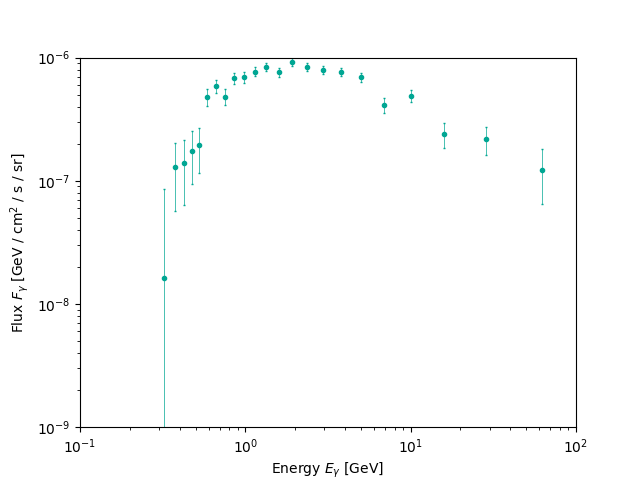
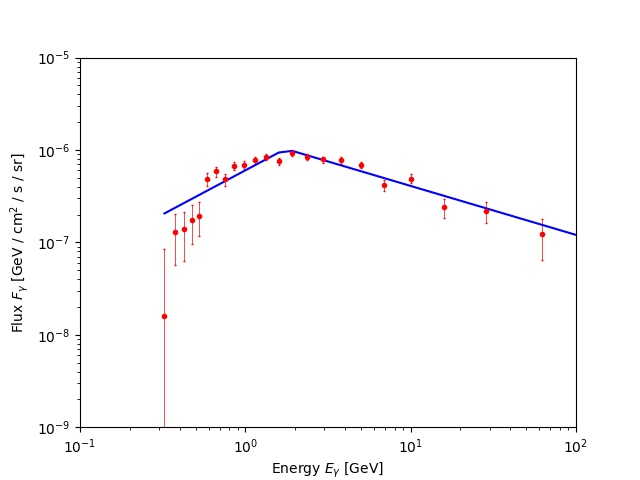
fit with bpl

diff --git a/Flux/flux.py b/Flux/flux.py
@@ -2,11 +2,25 @@
 #import
 
 import numpy as np
-import math
 import matplotlib.pyplot as plt
-from scipy.special import gammaincc,gamma, exp1
+from iminuit import Minuit
+from iminuit.cost import LeastSquares
 import os
 
+#useful functions
+
+#broken power law function (be carefull about exponential renorm)  
+def broken_pl(x, norm, x_b, n1, n2):             #norm: normalization, x_b: broken point, n1: 1st part index, n2: 2nd part index               
+    bpl = []
+
+    for a in range(0, len(x)):
+        if x[a] < x_b:
+            frac = (x[a]/x_b)**(2-n1)
+        else:
+            frac = (x[a]/x_b)**(2-n2)
+        bpl.append(norm *frac)
+    
+    return np.array(bpl)
 #****************************************************************
 #Import data of Calore et al. 2015
 
@@ -27,14 +41,30 @@ class Data(object):
 
 d = Data() 
 
+#--------------------------------------------------------------------
+#Fit with a broken power law
+l = LeastSquares(d.emeans, d.flux, d.flux_err, broken_pl) 
+m = Minuit(l, 1.0e-6, 2, 1.42, 2.6, name=("F_0", "E_b", "n1", "n2" )) #following Dinsmore2022 notation
+
+m.migrad()
+m.hesse()
+
+flux_fit = broken_pl(d.emeans, *m.values)
+print(m.values)
+#--------------------------------------------------------------------
+#Plot
+
 fig, ax = plt.subplots()
+
 ax.loglog()
 ax.set_xlim(1.0e-1, 1.0e2)
-ax.set_ylim(1.0e-9, 1.0e-6)
+ax.set_ylim(1.0e-9, 1.0e-5)
 ax.set_xlabel(r'Energy $E_\gamma$ [GeV]')
 ax.set_ylabel(r'Flux $F_\gamma$ [GeV / $\mathregular{cm^2}$ / s / sr]')
+
 ax = plt.errorbar(d.emeans,np.multiply(d.flux,1), yerr = d.flux_err,
-color='#00A693', capsize=1, capthick=1,ls='',
+color='red', capsize=1, capthick=1,ls='',
 elinewidth=0.5,marker='o',markersize=3, label='Template fitting')#,0label='Flux with stat. errors')
+plt.plot(d.emeans, flux_fit, color = "blue")
 
 plt.savefig(os.path.join('flux.png'))
